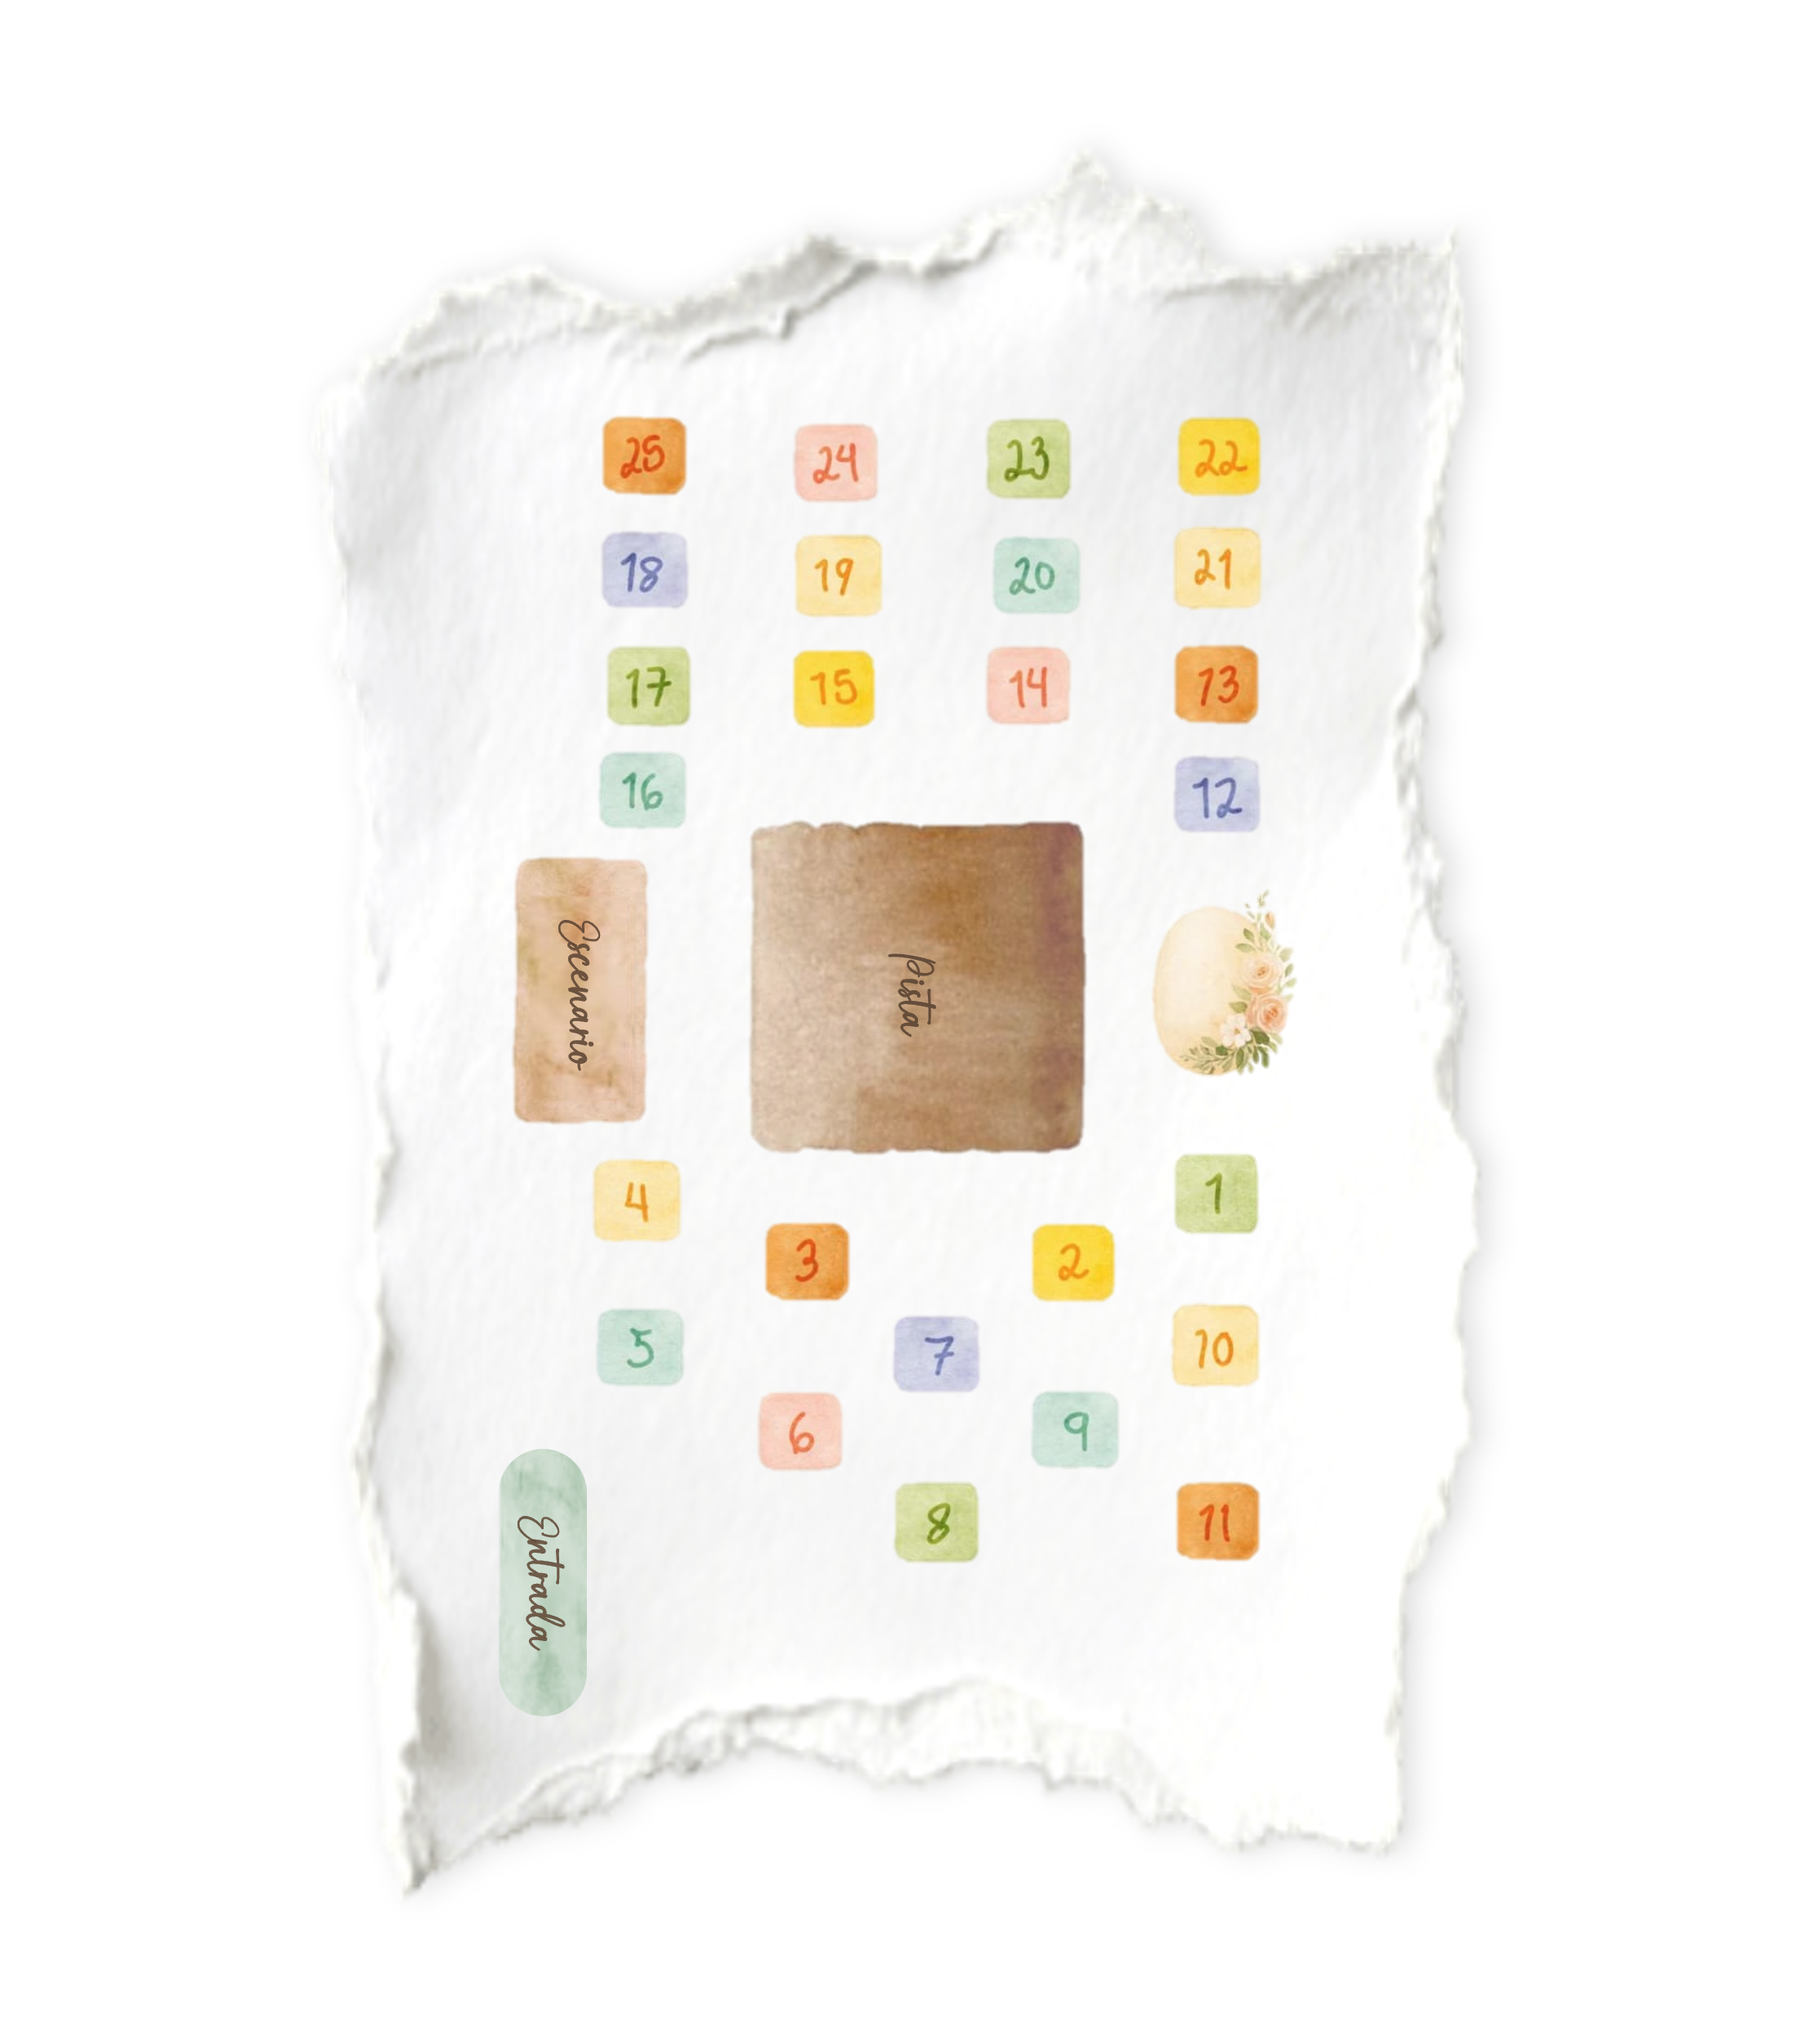
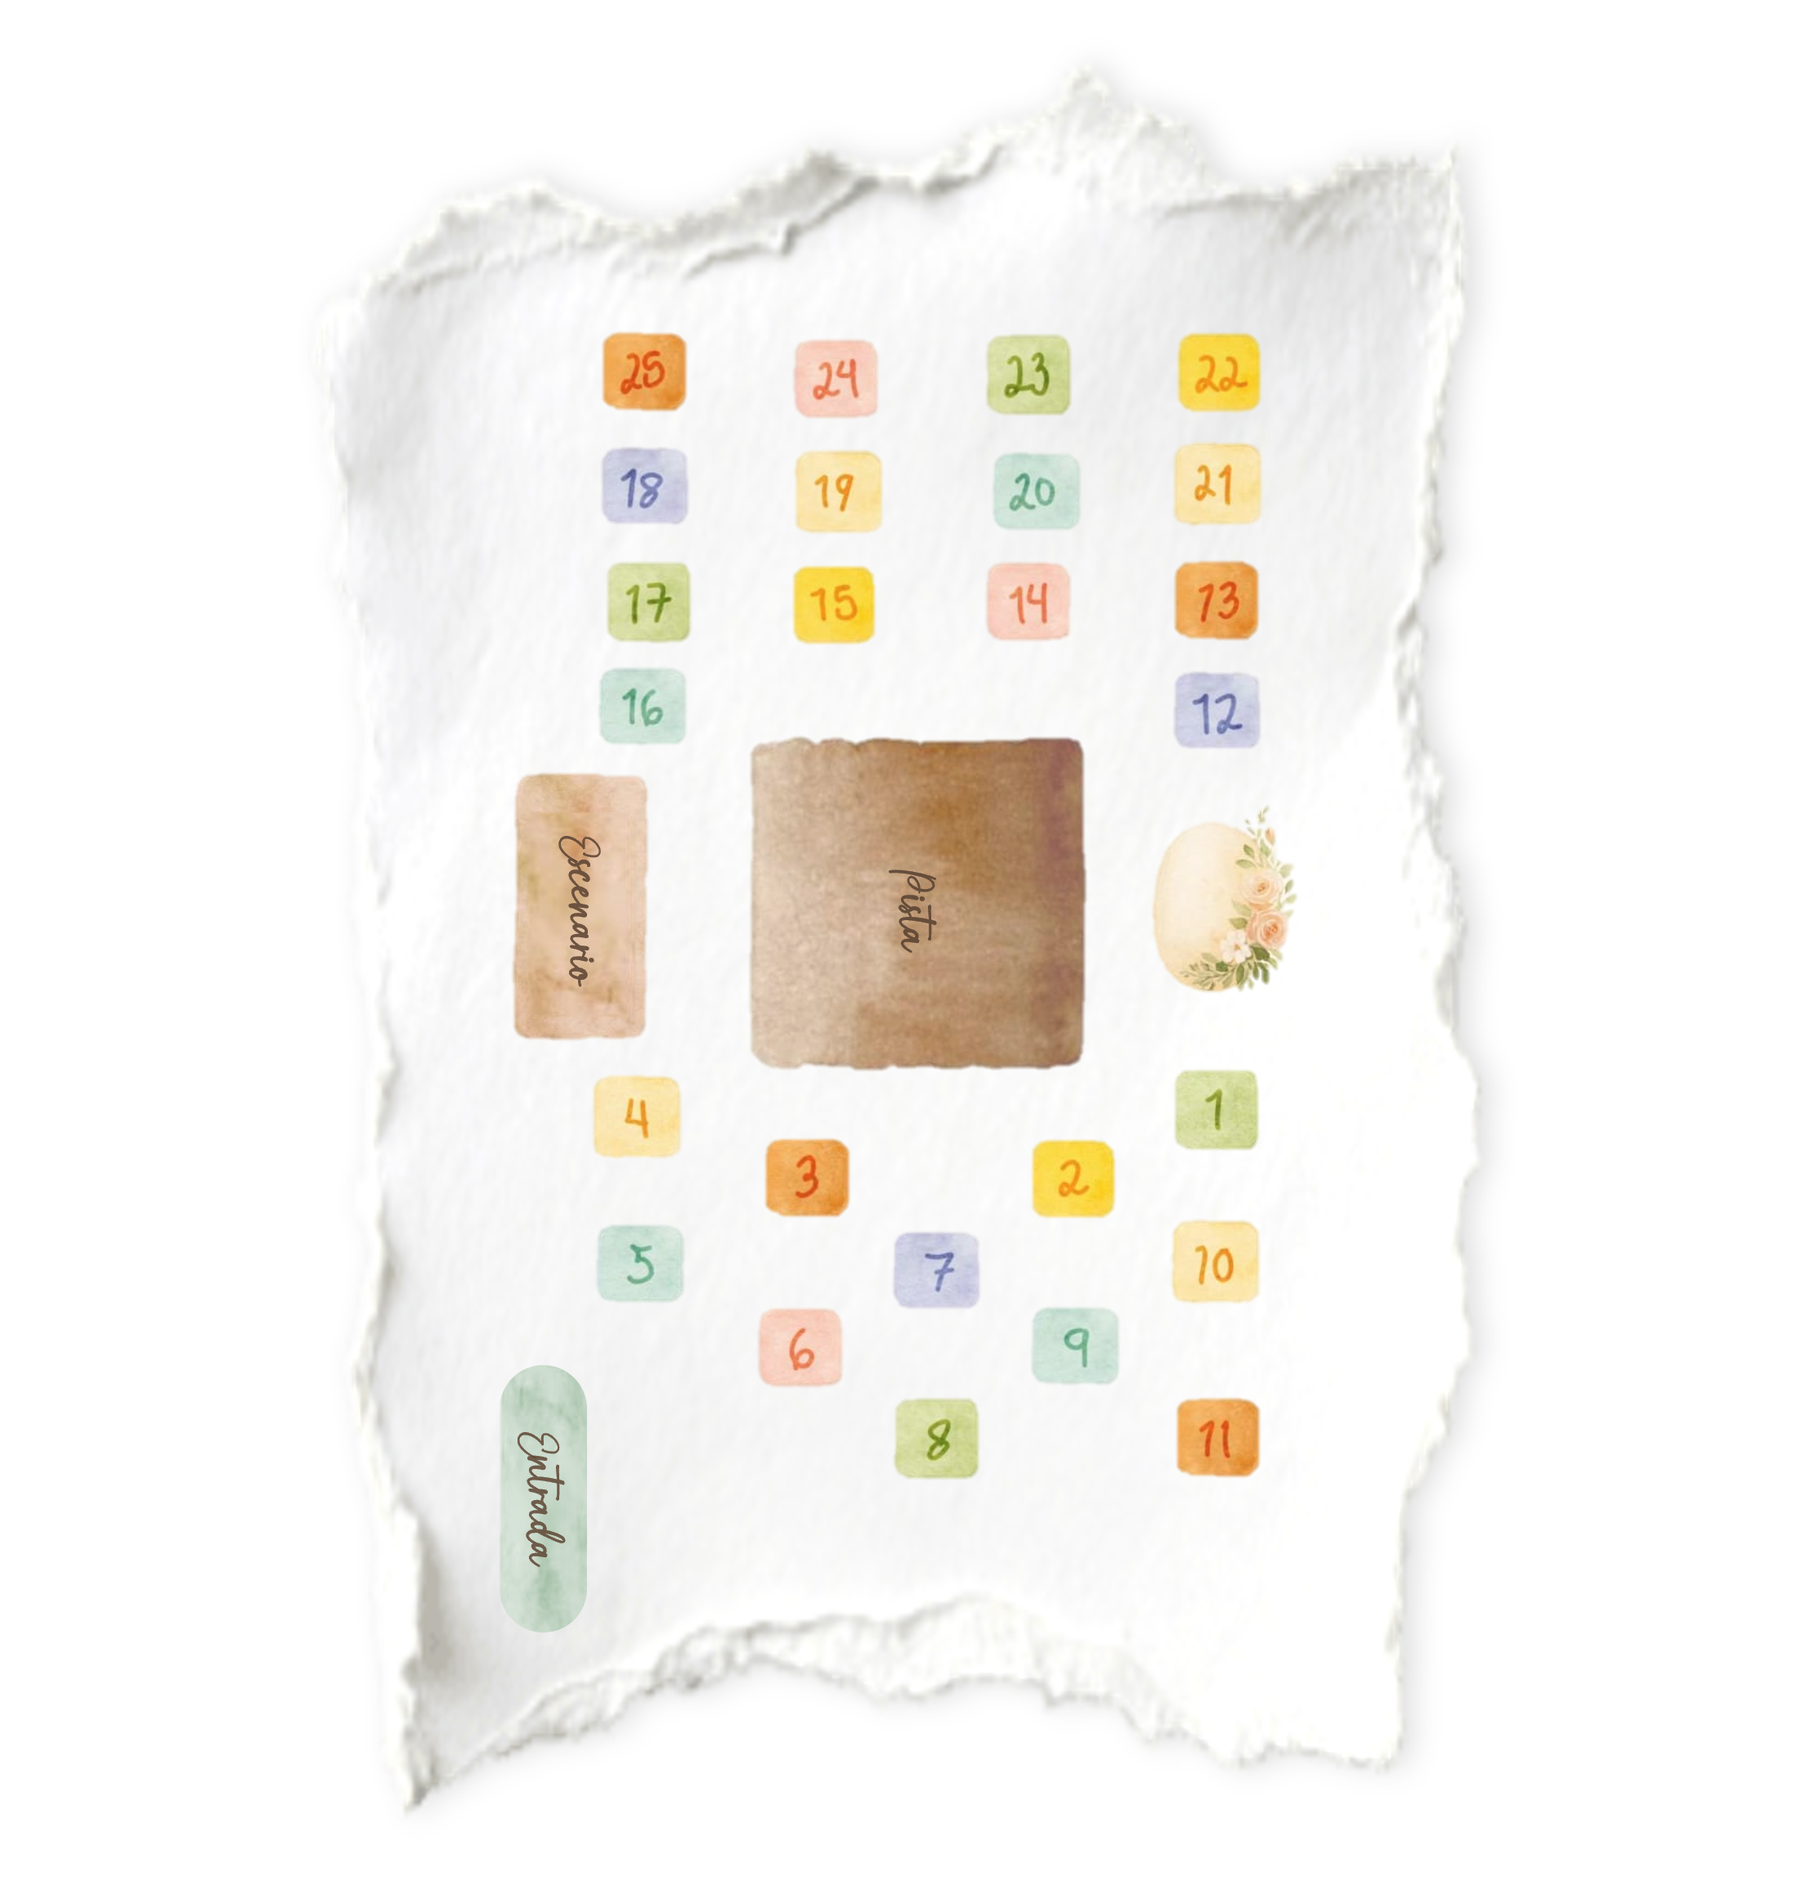
Se agrega liga para ver todos las mesas

diff --git a/frontend/pages/tables.js b/frontend/pages/tables.js
@@ -77,6 +77,22 @@ document.addEventListener("DOMContentLoaded", function () {
         }
       } catch (error) {
         console.log(error);
+        container.innerHTML = `<div class="guest-name" style="
+            display: block;
+        "><h4 style="
+            width: 100%;
+            font-family: 'Ephesis';
+            font-weight: 100;
+            font-size: 1.3rem;
+            line-height: 1.3rem;
+        ">Descarga el listado con la organizacion de mesas</h4>
+        <a href="https://melbran-wed-invite.onrender.com/assets/MesasVertical.pdf" style="
+            width: 100%;
+            font-family: serif;
+            color: #736341;
+            font-size: 1rem;
+        ">Busca tu mesa.pdf
+        </a></div>`;
       }
     }
   });
